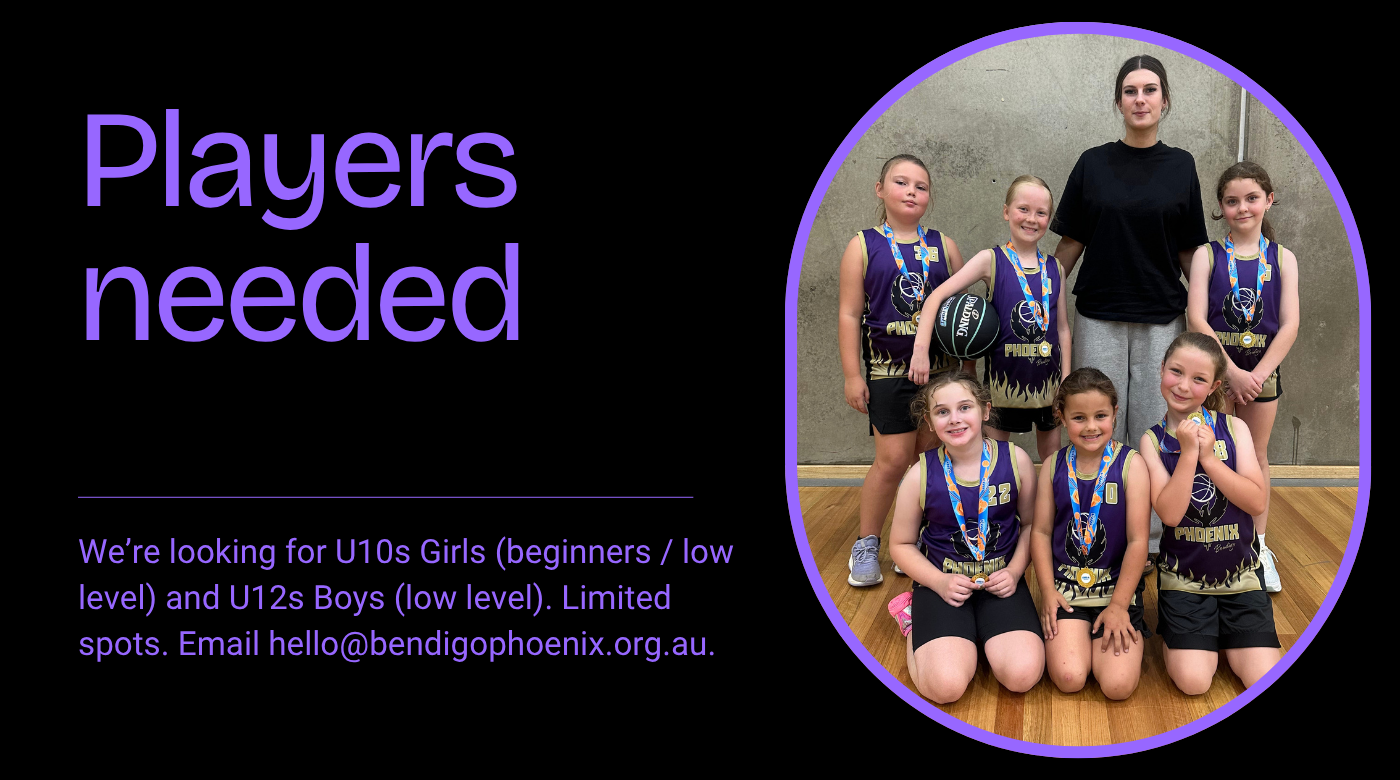
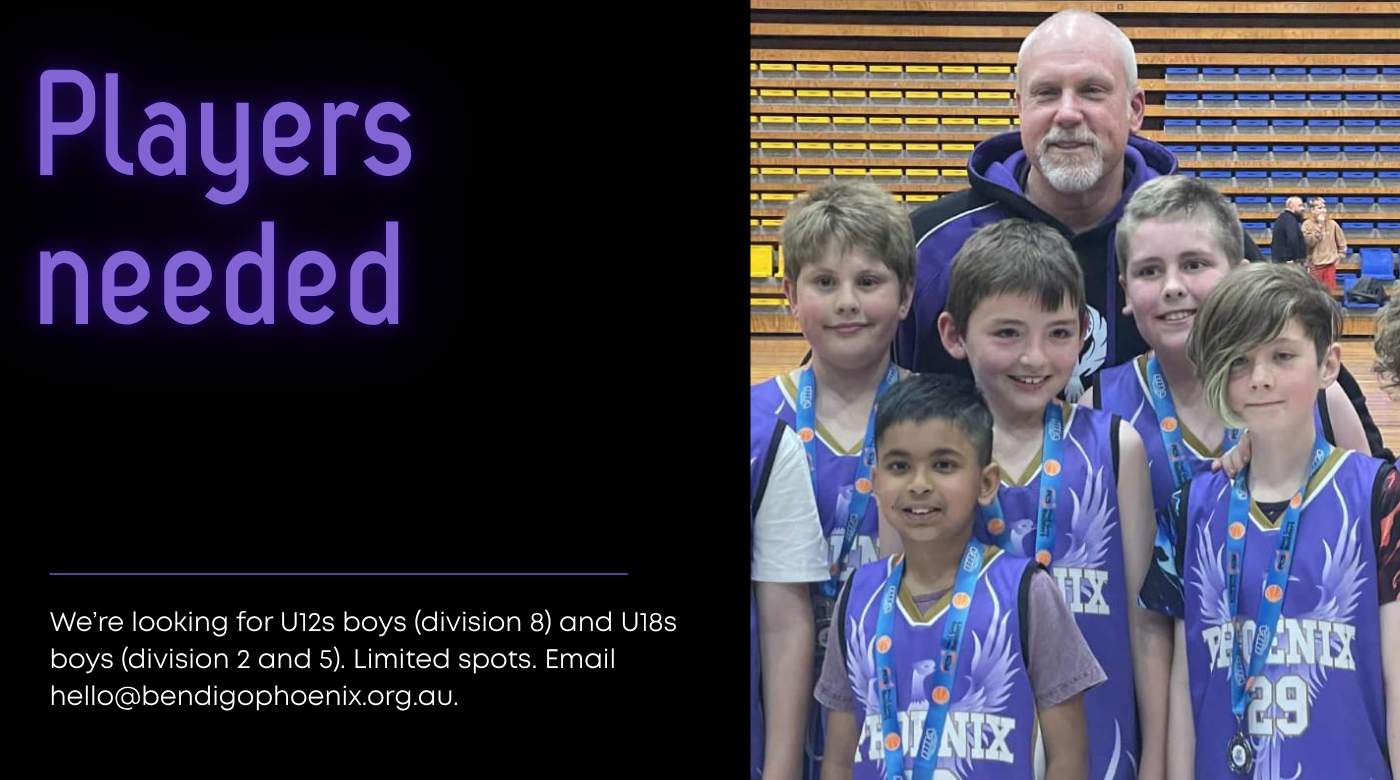
Fix PlayHQ sync and update homepage carousel

diff --git a/scripts/write-round-files.js b/scripts/write-round-files.js
@@ -185,16 +185,47 @@ async function writeRoundFile(roundNumber, weekStartDate, games, statsMap) {
   return true;
 }
 
+function getMelbourneTodayISO() {
+  const parts = new Intl.DateTimeFormat('en-CA', {
+    timeZone: 'Australia/Melbourne',
+    year: 'numeric',
+    month: '2-digit',
+    day: '2-digit',
+  }).formatToParts(new Date());
+  const values = Object.fromEntries(parts.map((part) => [part.type, part.value]));
+  return `${values.year}-${values.month}-${values.day}`;
+}
+
+function addDaysISO(dateStr, days) {
+  const date = new Date(`${dateStr}T00:00:00Z`);
+  date.setUTCDate(date.getUTCDate() + days);
+  return date.toISOString().slice(0, 10);
+}
+
 function writeIndex(roundNumbers) {
   const sorted = [...roundNumbers].sort((a, b) => a - b);
   const file = path.join(ROUNDS_DIR, 'rounds-index.json');
-  const currentRound = sorted.find((n) => {
-    const round = JSON.parse(fs.readFileSync(path.join(ROUNDS_DIR, `round-${n}.json`), 'utf8'));
-    return round.status === 'upcoming' || round.status === 'in-progress';
-  }) ?? (sorted[sorted.length - 1] ? sorted[sorted.length - 1] + 1 : 1);
+  const rounds = sorted.map((n) => JSON.parse(fs.readFileSync(path.join(ROUNDS_DIR, `round-${n}.json`), 'utf8')));
+  const today = getMelbourneTodayISO();
+
+  const activeRound = rounds.find((round) => {
+    const weekStart = round.weekStartDate;
+    if (!weekStart) return false;
+    const weekEndExclusive = addDaysISO(weekStart, 7);
+    return weekStart <= today && today < weekEndExclusive;
+  });
+  const liveRound = rounds.find((round) => round.status === 'in-progress');
+  const nextRound = rounds.find((round) => round.weekStartDate && round.weekStartDate > today);
+  const fallbackRound = rounds.findLast?.((round) => round.status === 'completed') ?? rounds[rounds.length - 1];
+  const currentRound = activeRound?.roundNumber
+    ?? liveRound?.roundNumber
+    ?? nextRound?.roundNumber
+    ?? fallbackRound?.roundNumber
+    ?? 1;
+
   const index = { currentRound, availableRounds: sorted, lastUpdated: new Date().toISOString() };
   fs.writeFileSync(file, JSON.stringify(index, null, 2));
-  structuredLog('info', { event: 'index_written', ...index });
+  structuredLog('info', { event: 'index_written', ...index, today });
 }
 
 function writeGameIndex(games) {

diff --git a/src/components/__tests__/coa-67-fixes.test.ts b/src/components/__tests__/coa-67-fixes.test.ts
@@ -47,12 +47,15 @@ describe('COA-67 fixes', () => {
     expect(contact).not.toContain('whitespace-nowrap')
   })
 
-  test('hero carousel does not include the player journal image', () => {
+  test('hero carousel uses the current uploaded announcement images', () => {
     const index = read('src/pages/index.astro')
 
+    expect(index).toContain("/images/hero/happy_holidays.png")
+    expect(index).toContain("/images/hero/calendar.png")
+    expect(index).toContain("/images/hero/big_plays.png")
     expect(index).toContain("/images/hero/players_needed.png")
-    expect(index).toContain("/images/hero/training_update.png")
-    expect(index).toContain("/images/hero/volunteers_heros.png")
     expect(index).not.toContain("/images/hero/player_journal.png")
+    expect(index).not.toContain("/images/hero/training_update.png")
+    expect(index).not.toContain("/images/hero/volunteers_heros.png")
   })
 })
